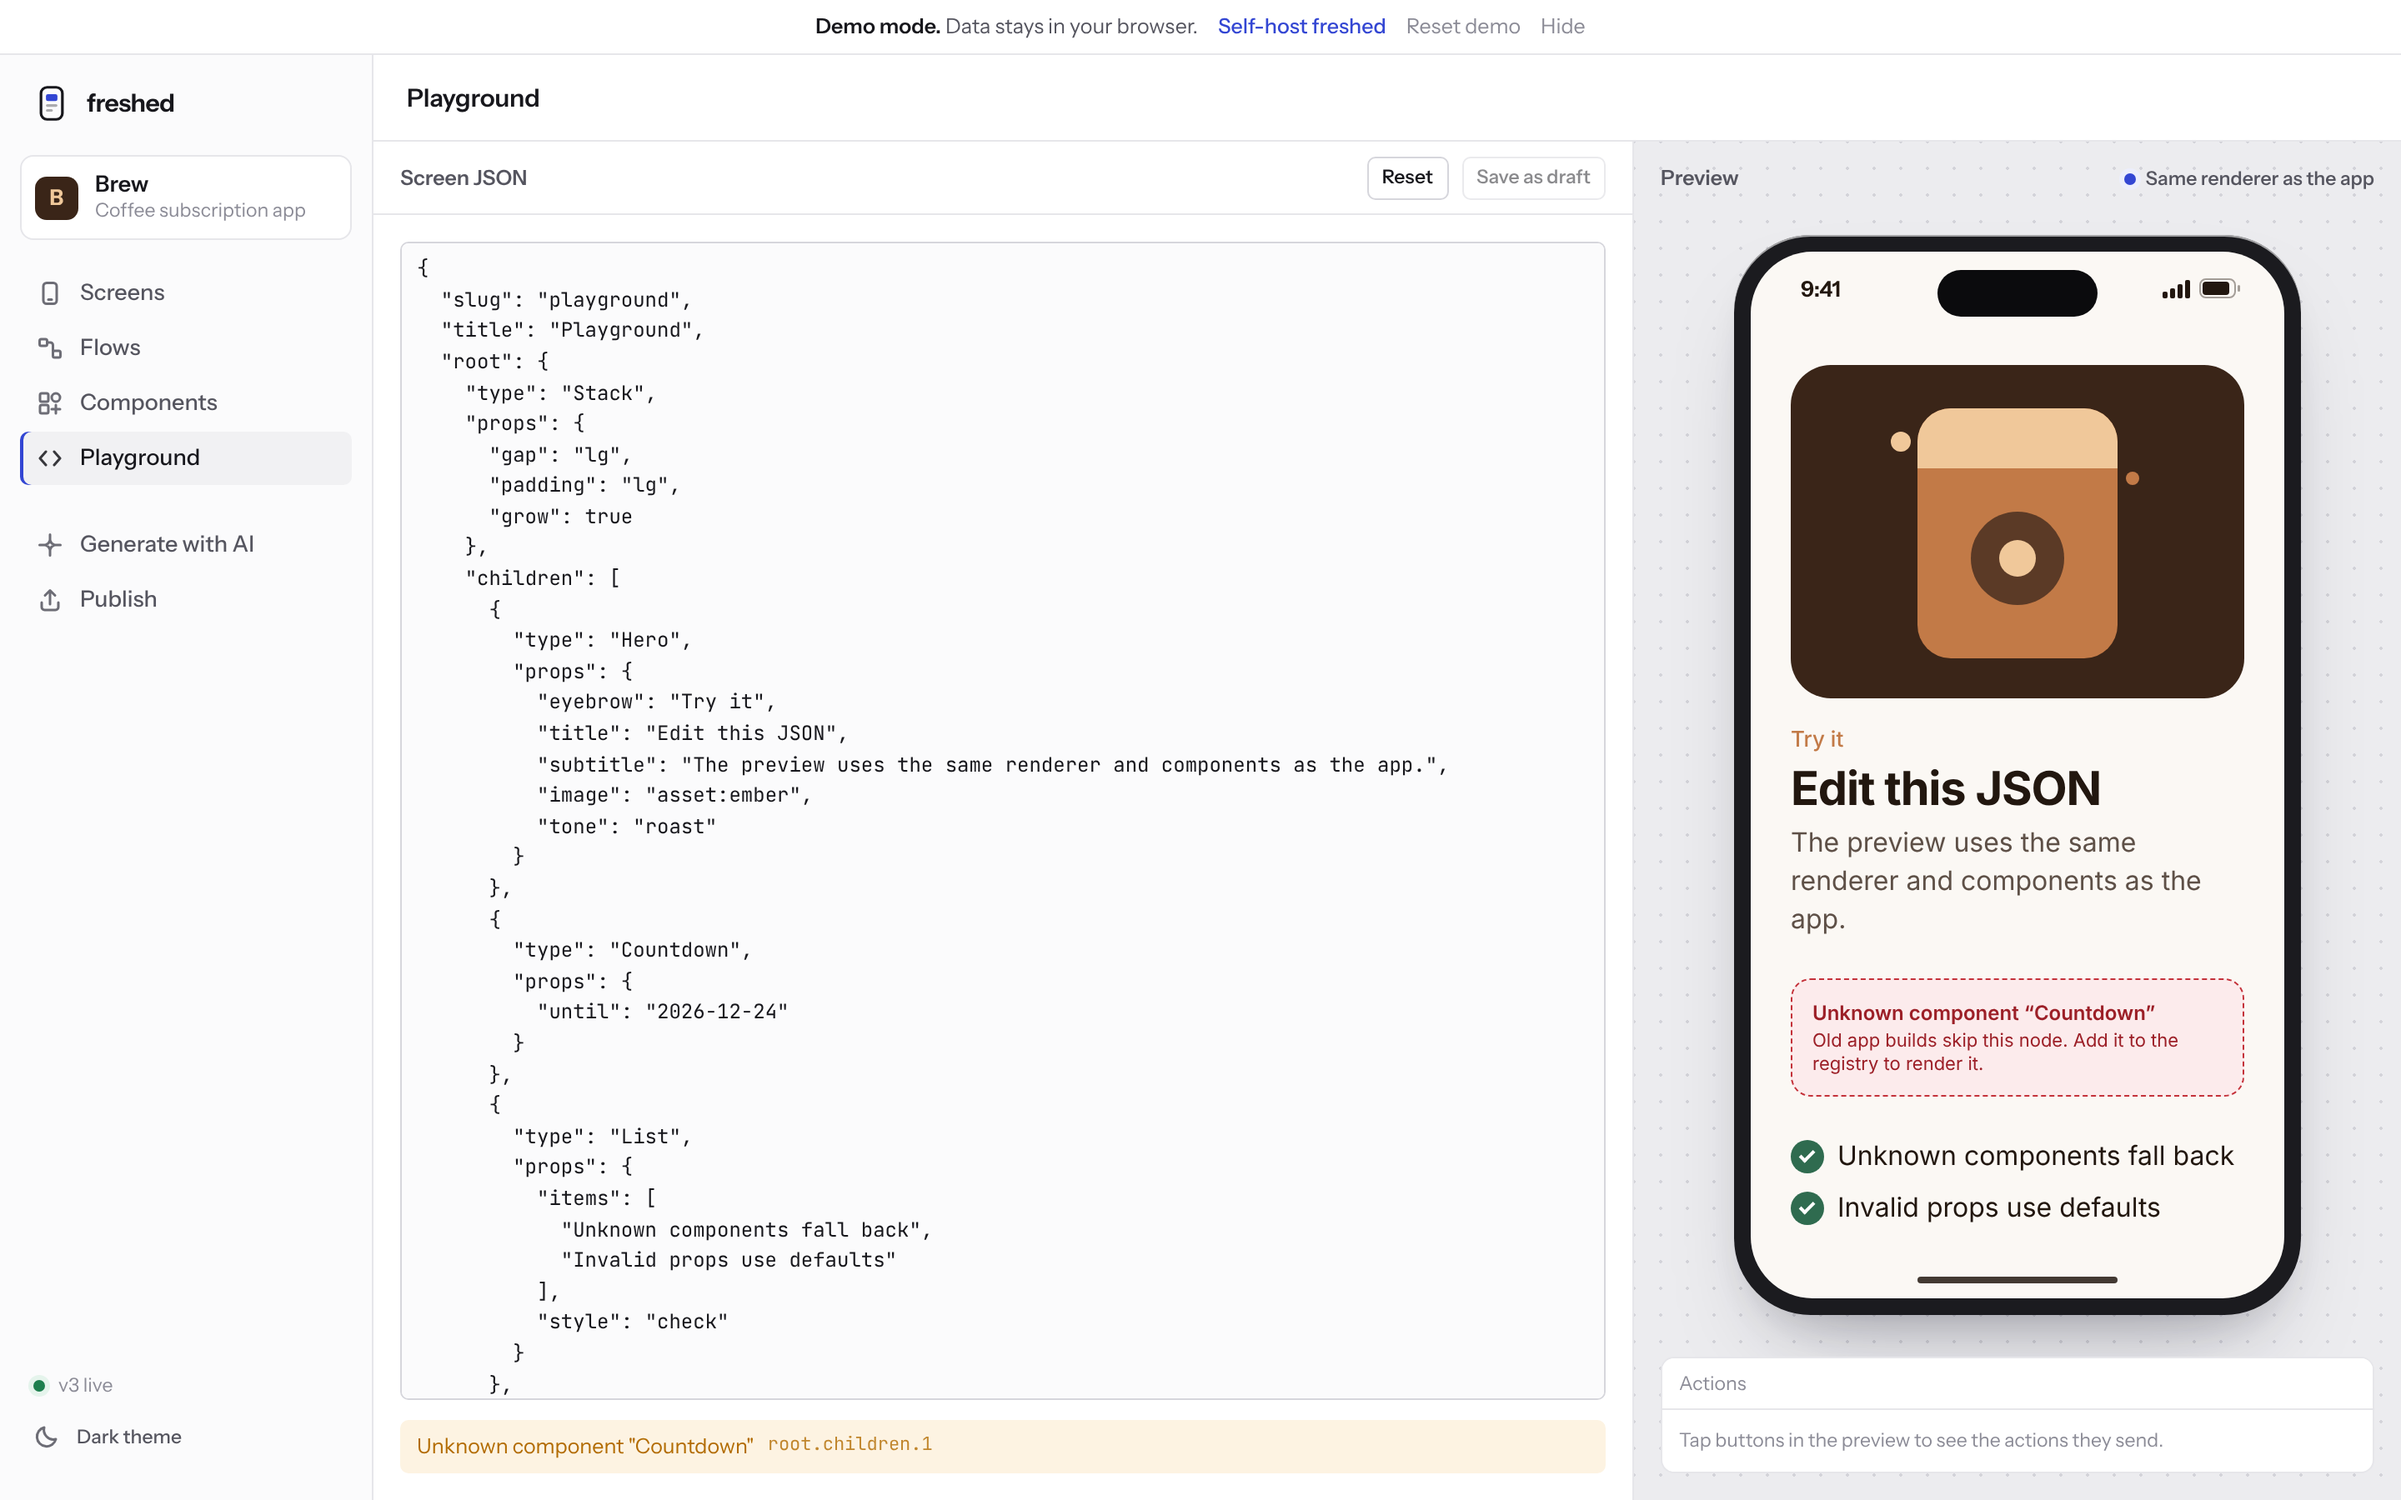
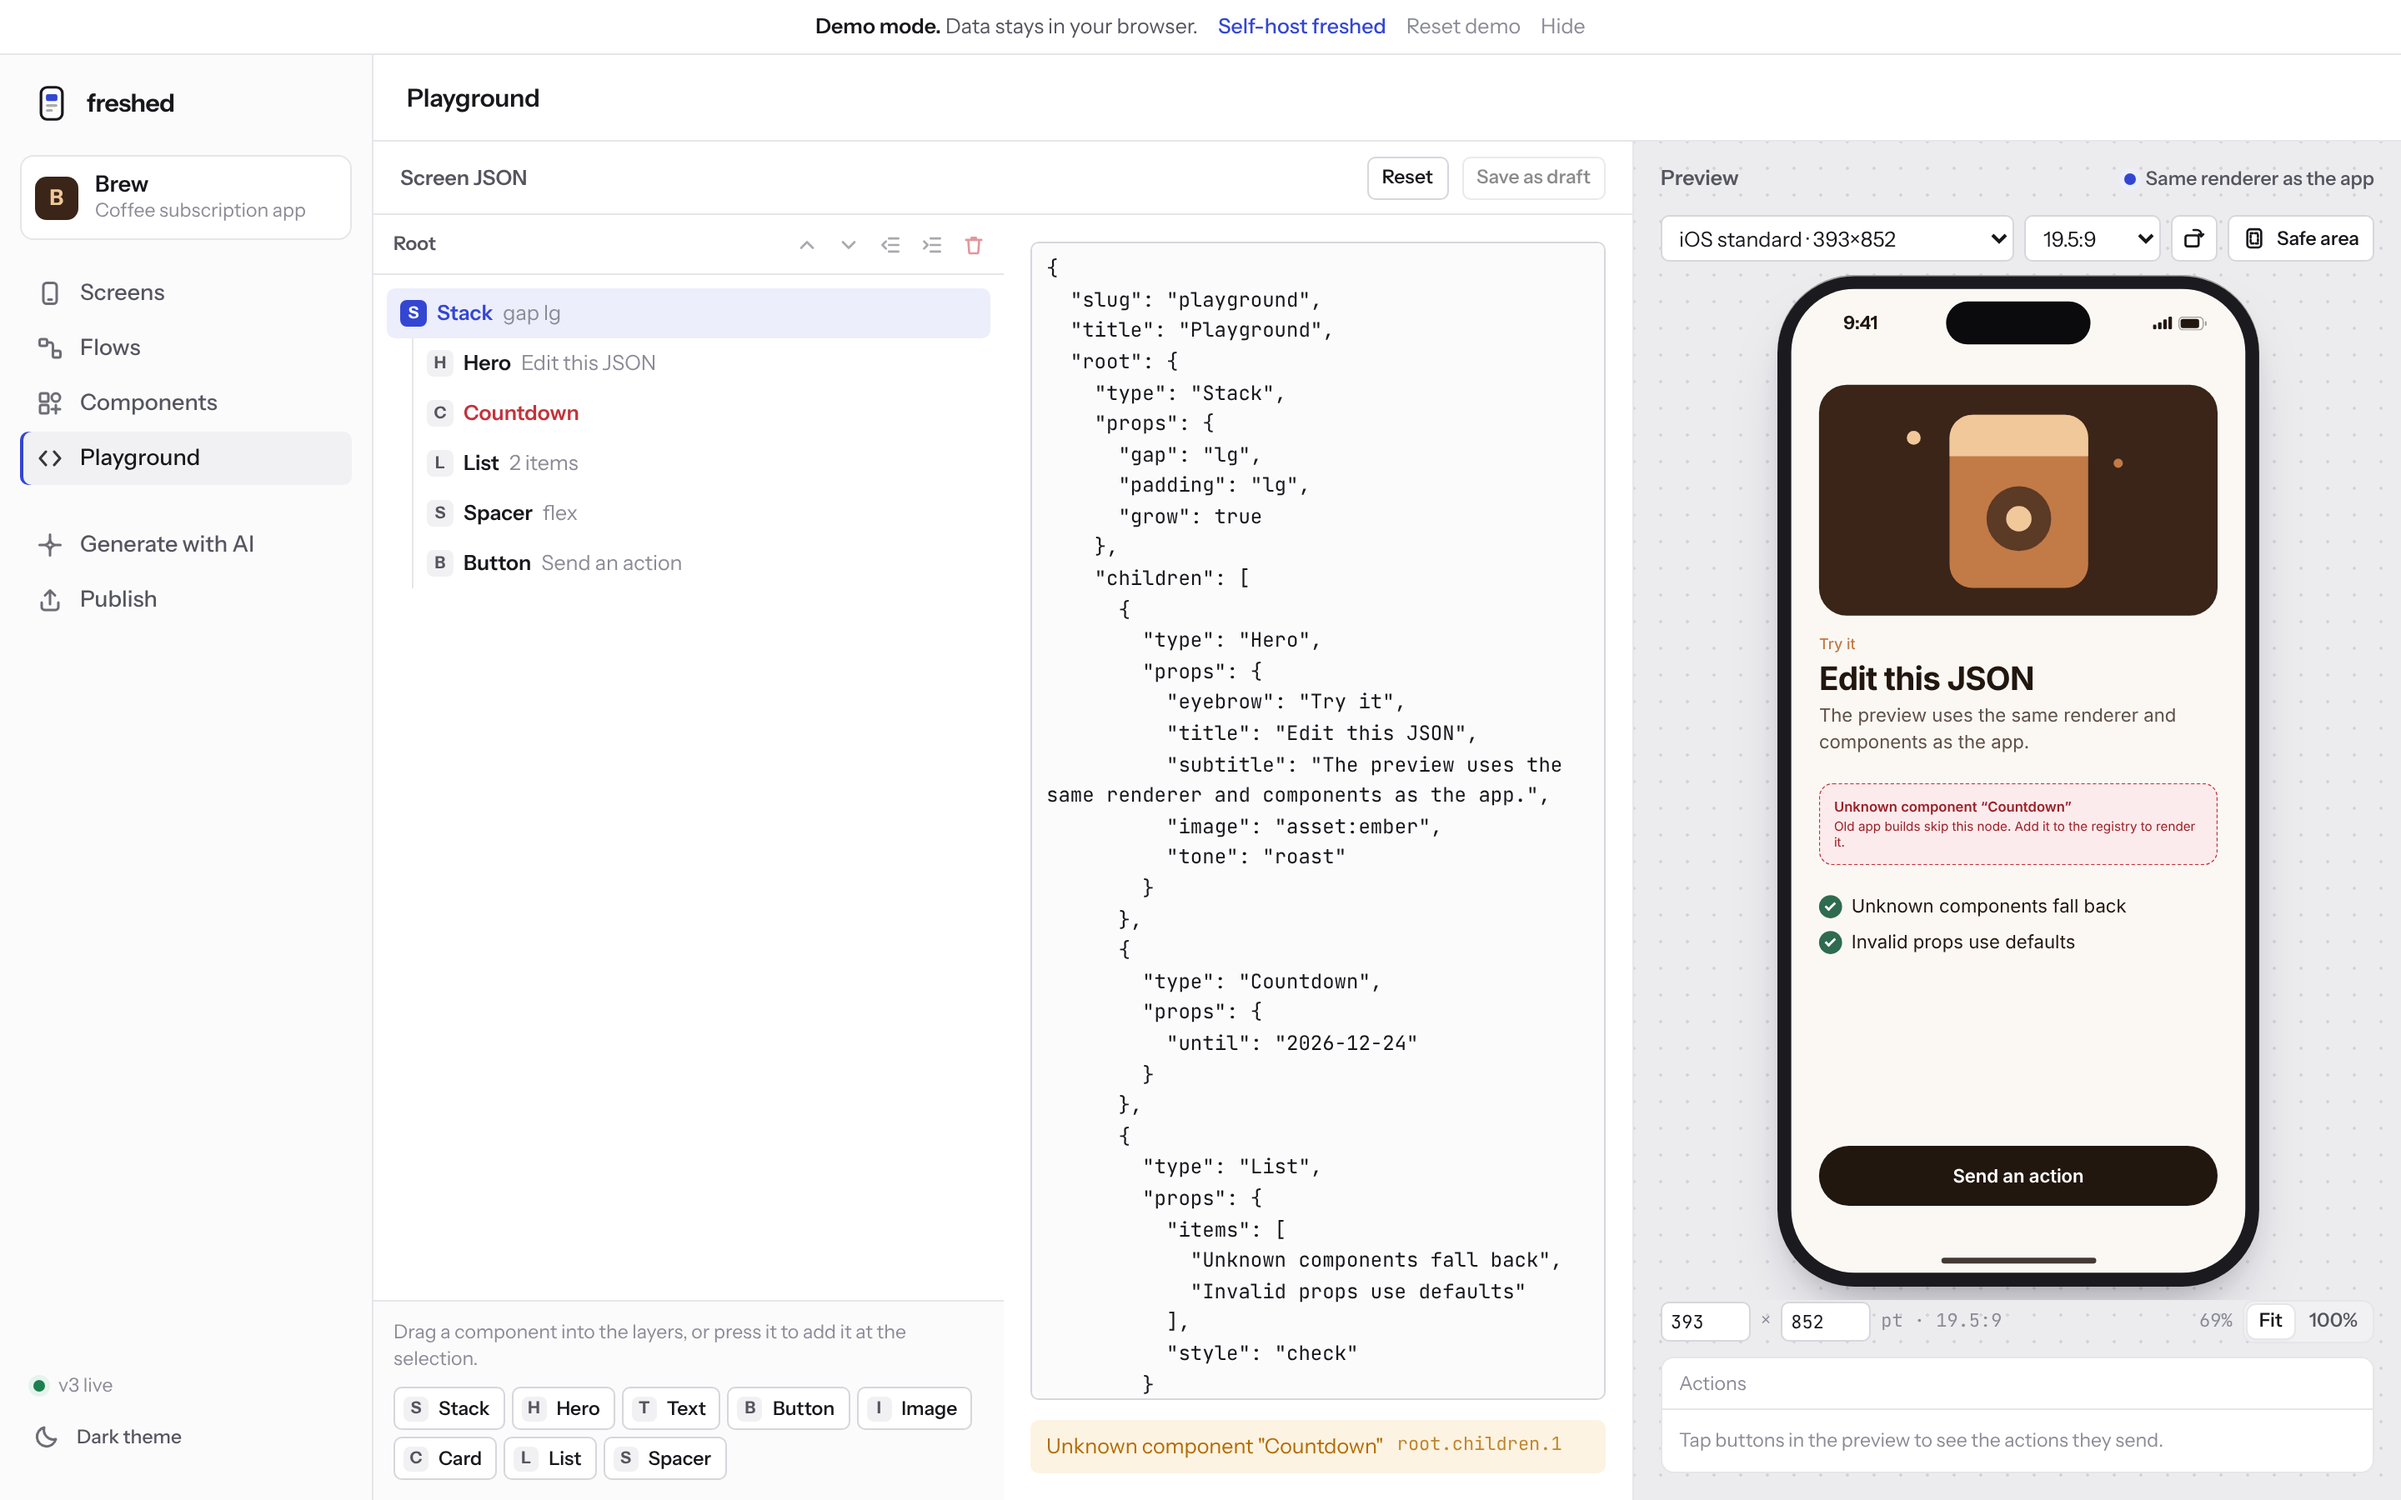
docs: device preview and layers in the design spec, changelog, screenshots
Claude-Session: https://claude.ai/code/session_015AsHQobrzzfEciZCp1soGQ

diff --git a/docs/design/DESIGN_SPEC.md b/docs/design/DESIGN_SPEC.md
@@ -49,8 +49,9 @@ both themes. Dark mode follows the system and can be overridden (`data-theme`).
 ### Space, radius, elevation
 
 - 4 px grid: 4, 8, 12, 16, 20, 24, 32.
-- Radius by hierarchy: 5 px controls, 8 px cards and panels, 12 px specimen surfaces, 46 px phone.
-- Elevation is reserved for the phone frame and popovers. Everything else is separated by 1 px lines.
+- Radius by hierarchy: 5 px controls, 8 px cards and panels, 12 px specimen surfaces. The device
+  frame uses the device's own screen radius plus its 12 pt bezel.
+- Elevation is reserved for the device frame and popovers. Everything else is separated by 1 px lines.
 
 ## Components
 
@@ -60,16 +61,63 @@ both themes. Dark mode follows the system and can be overridden (`data-theme`).
 | Column header     | 44 px, title in `--text-2`, actions right-aligned                                 |
 | List item         | Title + monospace slug; status dot (live/draft/new) at the right                  |
 | Tree row          | 30 px, 16 px indent with guide lines, type glyph, component name, summary         |
+| Layers            | Tree rows drag to reorder and nest (see below); toolbar with level and actions    |
+| Palette           | Registered components as chips under the layers; drag to place, press to add      |
 | Prop field        | Label + monospace type + `required`; control by prop type (see below)             |
 | Segmented control | Enums with up to 4 values; selects for longer enums                               |
 | Switch            | Booleans                                                                          |
 | Action editor     | Action type select + one field for its target                                     |
 | Status chip       | Dot + label; state colors only                                                    |
 | Issue row         | Soft red (error) or soft amber (warning) with the path in monospace               |
-| Phone frame       | 340 px wide, height follows the viewport; status bar, island, home indicator      |
+| Device bar        | Device select (size in pt), aspect ratio select, rotate, Safe area toggle         |
+| Device frame      | Drawn at the device's size in pt, scaled to fit; status bar, cutout, home bar     |
+| Device readout    | Under the frame: width × height inputs in pt, ratio, zoom %, Fit / 100%           |
 | Action log        | Monospace list under the phone: `screen  emit "next"`                             |
 | Timeline          | Version history with a live node in green                                         |
 | Diff block        | File header + status tag; added lines on `--live-soft` with a `+` gutter          |
+
+### Layers
+
+- Dragging a row over another row: the top quarter drops before it, the middle drops inside a
+  container (Stack, Card) as its last child, the bottom quarter drops after it, or as the first
+  child when the container already has children. Leaves split at half height. The empty space
+  under the last row appends to the screen.
+- Feedback: a 2 px signal line with a dot at the depth the node will land, or a signal outline on
+  the container it will enter. The dragged row and its subtree fade to 40%. Drops that would put a
+  node inside itself, into a leaf, or deeper than the schema's depth limit are not offered.
+- The toolbar shows the selected layer's level ("Level 2 · in Card", "Root") and moves it up,
+  down, out of its parent (one level up) and into the container above (one level down), or
+  removes it. Every drag has a keyboard equivalent: Alt+↑/↓ reorder, Alt+←/→ change the level,
+  ↑/↓ move between rows, Enter selects.
+- The same panel serves the screen editor and the playground, where edits rewrite the JSON. The
+  playground locks the layers while its JSON does not parse or cannot render.
+
+### Device preview
+
+The preview lays screens out at a device's logical size, one point per CSS pixel, so text wraps
+and content fits exactly as on the phone. The frame is then scaled to fit the light table (Fit),
+or shown at 100% with scrolling. Content sits inside the safe area, like an app that wraps
+screens in `SafeAreaView` (the Expo example does). The setting is shared by every preview and
+remembered per browser.
+
+| Preset           | Size (pt)  | Ratio  | Safe area portrait (t, b) | Landscape (t, r, b, l) | Chrome               |
+| ---------------- | ---------- | ------ | ------------------------- | ---------------------- | -------------------- |
+| iOS compact      | 375 × 667  | 16:9   | 20, 0                     | 0, 0, 0, 0             | status bar           |
+| iOS standard     | 393 × 852  | 19.5:9 | 59, 34                    | 0, 59, 21, 59          | island, home bar     |
+| iOS large        | 430 × 932  | 19.5:9 | 59, 34                    | 0, 59, 21, 59          | island, home bar     |
+| iOS tablet       | 820 × 1180 | 1.44:1 | 24, 20                    | 24, 0, 20, 0           | home bar             |
+| Android compact  | 360 × 800  | 20:9   | 24, 24                    | 24, 0, 24, 32          | punch-hole, home bar |
+| Android standard | 412 × 915  | 20:9   | 32, 24                    | 24, 0, 24, 32          | punch-hole, home bar |
+| Android tablet   | 800 × 1280 | 16:10  | 24, 24                    | 24, 0, 24, 0           | home bar             |
+
+- Insets are typical for each class of device, not one model's exact figures. Names are generic:
+  the preview is about layout classes, not brands.
+- Picking an aspect ratio (4:3, 3:2, 16:10, 16:9, 18:9, 19.5:9, 20:9, 21:9) keeps the short side
+  and sets the long side; typing a width or height (240–1600 pt) does the same by hand. Both turn
+  the device into "Custom", which keeps the preset's safe area and chrome.
+- **Safe area** draws hatched bands over the unsafe edges, each labelled with its inset in pt, and
+  a dashed outline around the safe area. The guides use the fixed signal ultramarine because they
+  sit on the app's own background, not the Studio's.
 
 Prop controls: `string` input (textarea when multiline or long, with a character counter),
 `number` input, `boolean` switch, `enum` segmented or select, `image` input (`asset:` or https),
@@ -88,8 +136,8 @@ Shell
 
 Screens                         Flows
 ┌──────┬──────────────┬───────┐ ┌──────────────────────┬───────┐
-│ list │ tree │ props │ phone │ │ graph                │ phone │
-│      │      │       │ + log │ │                      │ + log │
+│ list │layers│ props │ phone │ │ graph                │ phone │
+│      │+add  │       │ + log │ │                      │ + log │
 │      │      │       │       │ ├──────────────────────┤       │
 │      │      │       │       │ │ edge table           │       │
 └──────┴──────────────┴───────┘ └──────────────────────┴───────┘
@@ -112,7 +160,8 @@ The phone always sits on the light table at the right edge so the eye knows wher
 | Screens editor   | Edit a screen as a tree or JSON with live preview and action log | `screens/screens-editor.png`, `screens-editor-dark.png` |
 | Flows            | Graph of screens and events; click through in the phone          | `screens/flow-graph.png`                                |
 | Components       | Registry: specimen, props table, usage, definition               | `screens/components.png`                                |
-| Playground       | Paste JSON, see validation and the render, including fallbacks   | `screens/playground.png`                                |
+| Device preview   | Device presets, aspect ratio, rotation and safe-area guides      | `screens/device-preview.png`, `device-preview-dark.png` |
+| Playground       | Paste JSON or drag layers, see validation and the render         | `screens/playground.png`                                |
 | Publish          | Unpublished changes, publish, history with rollback              | `screens/version-history.png`                           |
 | Generate with AI | Prompt, BYO key, proposed drafts, preview, code diff             | `screens/ai-panel.png`, `ai-panel-dark.png`             |
 
@@ -135,4 +184,8 @@ generating. `prefers-reduced-motion` disables all of it.
   `treeitem` with `aria-selected` and `aria-level`.
 - Visible 2 px focus ring in the signal color.
 - Toasts use `role="status"`; validation lists are labelled.
-- The phone frame is a labelled region; preview components keep their own roles and labels.
+- The device frame is a labelled region; preview components keep their own roles and labels.
+  Status bar, cutout and safe-area guides are `aria-hidden`; the Safe area button's tooltip
+  states the insets.
+- Drag and drop is never the only way: layer moves have toolbar buttons with
+  `aria-keyshortcuts` and Alt+arrow shortcuts, and palette chips add on Enter or Space.

diff --git a/CHANGELOG.md b/CHANGELOG.md
@@ -6,6 +6,15 @@ All notable changes to this project are documented here. The format follows
 
 ## [Unreleased]
 
+### Added
+
+- Studio: device preview with presets for iOS and Android phones and tablets, an aspect ratio
+  selector, custom width and height in points, portrait and landscape, Fit or 100% zoom, and
+  safe-area insets with optional guides. Screens lay out at the device's real logical size.
+- Studio: layers panel in the screen editor and the playground. Drag layers to reorder and nest
+  them, drag components in from a palette, and change a layer's level with the toolbar or
+  Alt+arrow keys. The playground's layers edit its JSON.
+
 ## [0.1.0] - 2026-11-01
 
 ### Added
